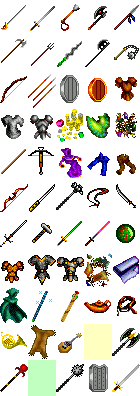
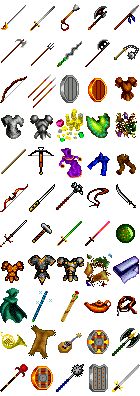
More new graphics - Replace the Wyrmfire snow set with a snow set by ADoS - A new wallset by ADoS and a few useful indoor tiles - Two new large shields by ADoS - Remove the duplicate mushrooms item graphic

Changed region(s): [[0.6, 0.8182, 0.8, 0.9091], [0.2, 0.9091, 0.4, 1.0]]

diff --git a/src/scenedit/scen.keydlgs.cpp b/src/scenedit/scen.keydlgs.cpp
@@ -161,7 +161,7 @@ pic_num_t choose_graphic(short cur_choice,ePicType g_type,cDialog* parent) {
 	size_t total_pics = 0;
 	cPictChoice* pic_dlg = nullptr;
 	switch(g_type + PIC_PRESET) {
-		case PIC_TER: total_pics = 523; break;
+		case PIC_TER: total_pics = 539; break;
 		case PIC_TER_ANIM: total_pics = 17; break;
 		case PIC_DLOG: total_pics = 44; break;
 		case PIC_TALK: total_pics = 84; break;

diff --git a/rsrc/graphics.exd/mac/CREDITS.md b/rsrc/graphics.exd/mac/CREDITS.md
@@ -72,13 +72,11 @@ Graphics 24 and 46-49 were monster graphics in original BoE.
 Minstrel.
 - On ter8.png, graphics 0, 1, 5, 6, 10, 11, 15, 16 are by Celtic Minstrel; 48 and 49 are
 by
-Wyrmfire; 18 and 19 are by ADoS; and the rest are by Mistb0rn.
-- ter9.png is entirely by Wyrmfire.
-- On ter10.png, graphics 0-5, 8-19 are by Wyrmfire, and the rest are by Mistb0rn (but
-based
-on Wyrmfire's graphics).
-- On ter11.png, graphics 0-22 are by Mistb0rn.
-- On teranim.png, graphic 15 is by Mistb0rn and graphic 16 is by Wyrmfire.
+- ter9.png is entirely by ADoS (some based on original BoE graphics).
+- On ter10.png, the base ice tiles (graphics 1 and 2) are by Mistb0rn and the rest is by
+ADoS (based on those tiles and original BoE graphics) with some tweaks by Celtic Minstrel.
+- ter11.png is entirely by ADoS.
+- On teranim.png, graphic 15 is by Mistb0rn and graphic 16 is by ADoS.
 - termap.png currently just contains directly shrunken versions of the other sheets.
 
 For monster graphics, most are original BoE graphics, except for the following (some of
@@ -92,8 +90,8 @@ background flooring.
 
 For item graphics, most are original BoE graphics, except for the following:
 
-- The last row of objects.png are by ADoS, as is graphic 17.
-- On tinyobj.png, graphics 17 and 45-49 are by ADoS.
+- The last two rows of objects.png are by ADoS, as is graphic 17.
+- On tinyobj.png, graphics 17, 45-54, and 134-138 are by ADoS.
 
 startanim.png has been heavily modified with new text, but the actual pictures in it are
 still all original BoE graphics.
